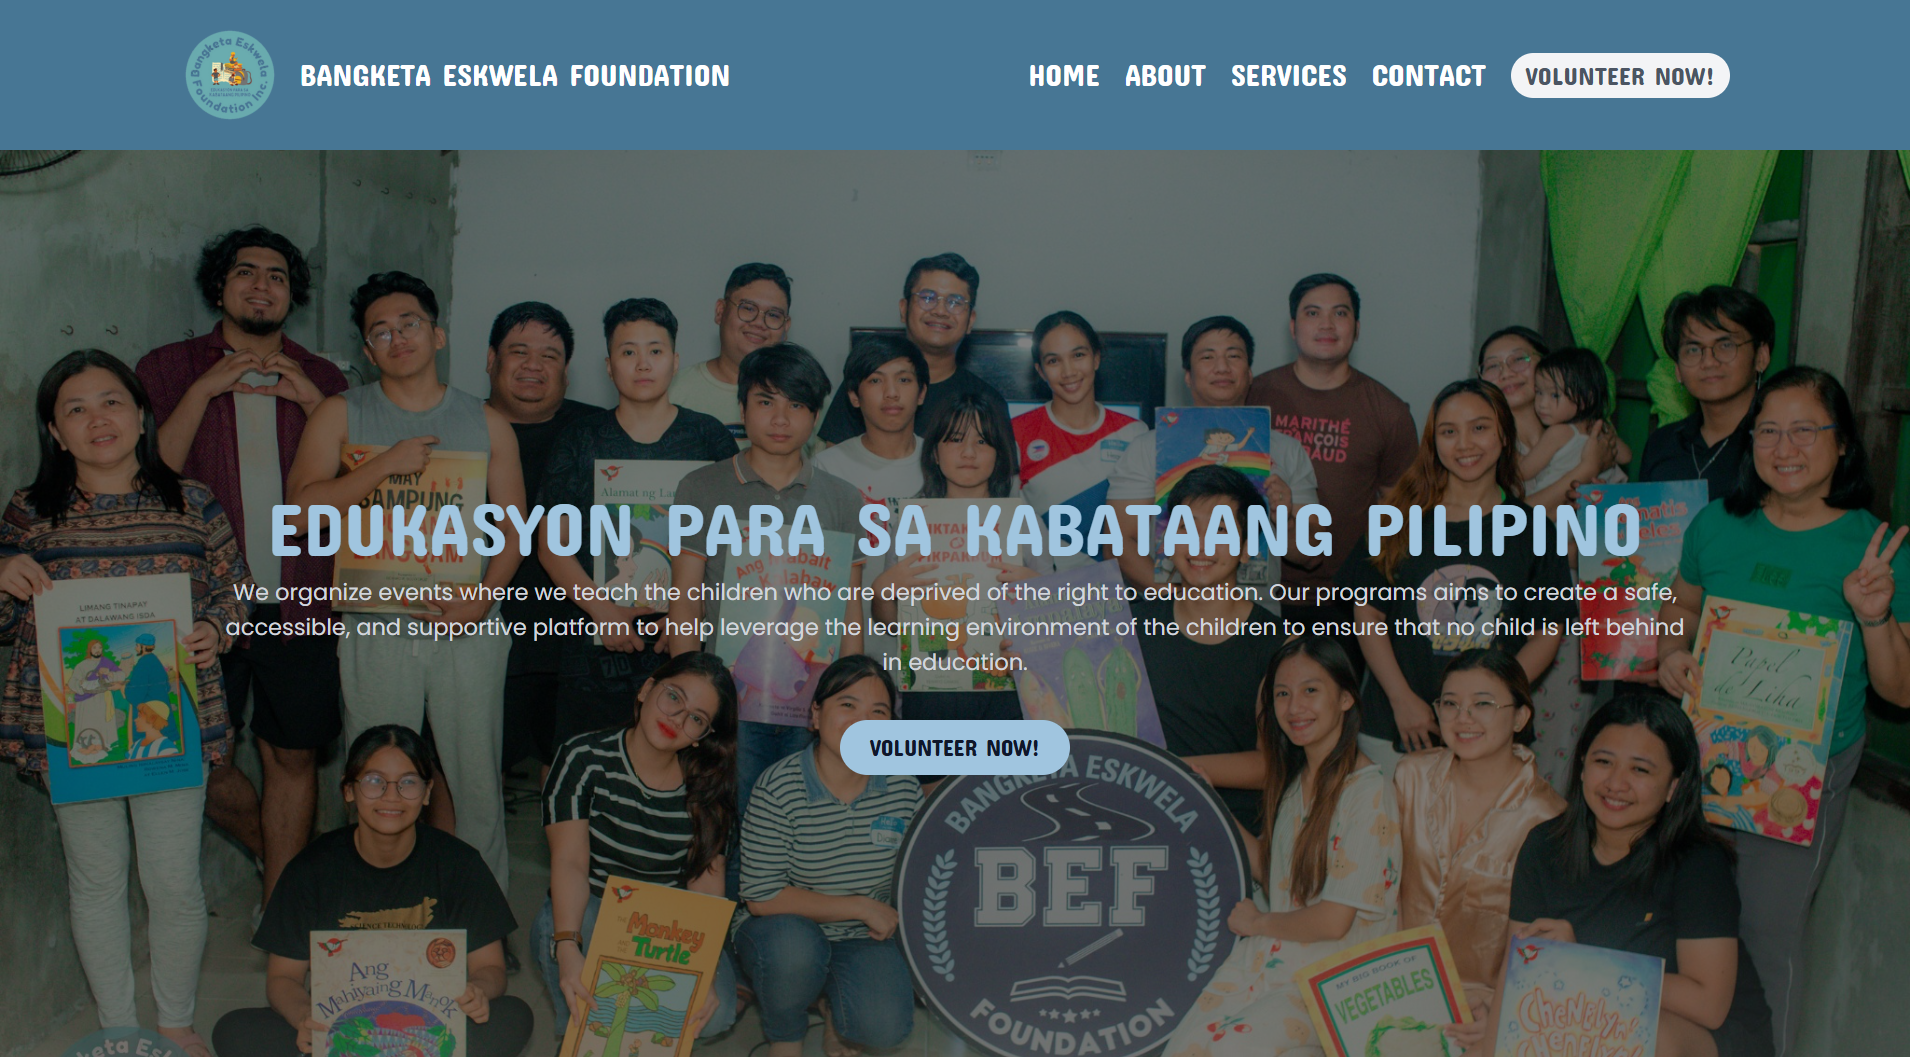
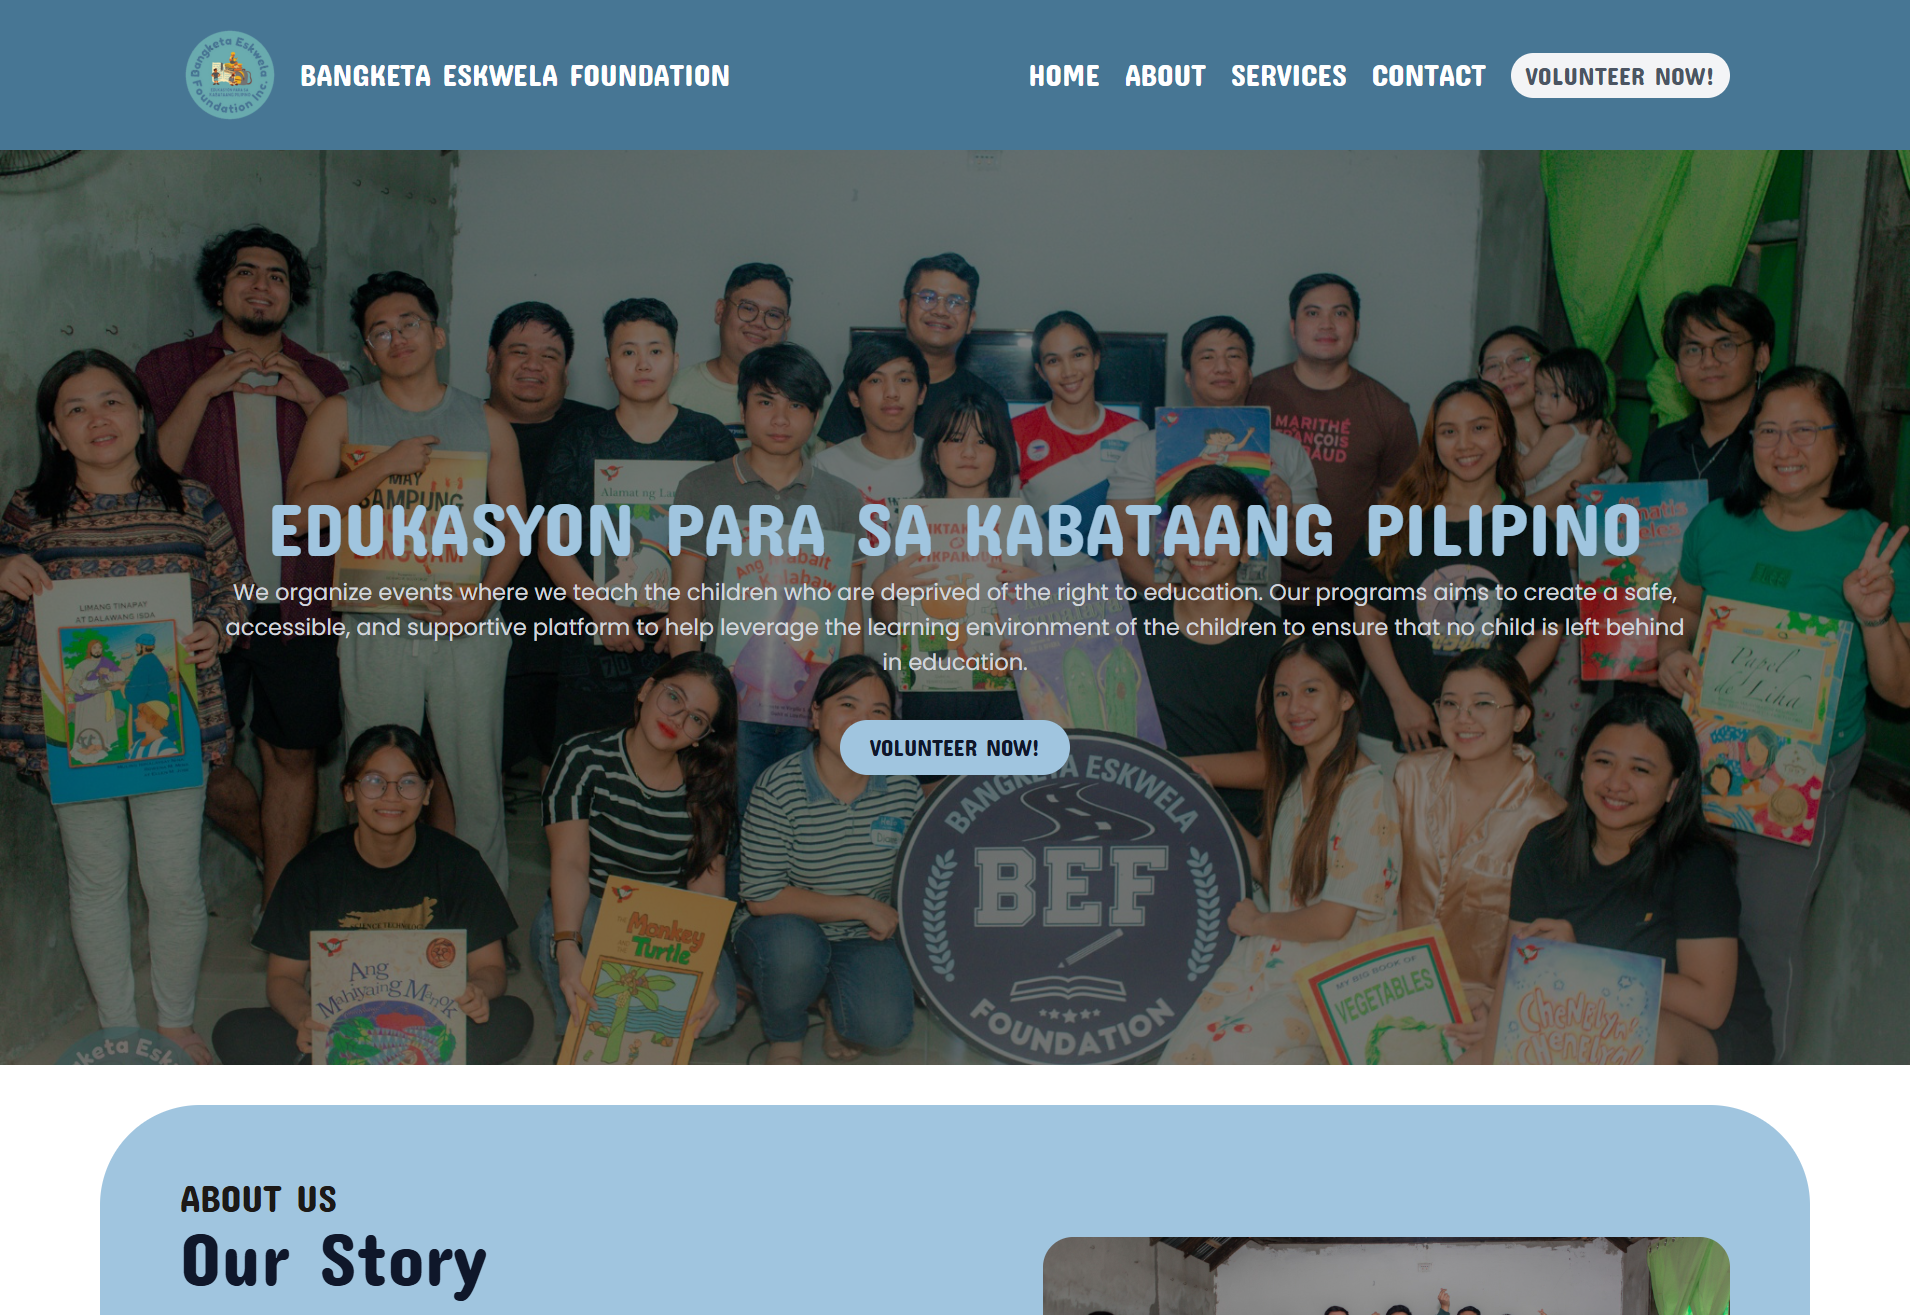
fixed the contents of the bangketa eskwela and hris contents

diff --git a/src/app/components/home/home.component.html b/src/app/components/home/home.component.html
@@ -22,7 +22,7 @@
             </h2>
             <h3 class=" text-2xl lg:text-2xl md:text-2xl mb-4 font-medium dark:text-stone-200 position " style = "color: #a7b5fe">Front-end Developer | CMS Developer | Web Designer | Graphic Desginer</h3>
             <p class="mb-8 leading-relaxed dark:text-white descrip text-justify">Welcome to my personal portfolio! Here, you’ll find a collection of my work and past projects that reflect my skills and experience. If you have any questions or would like to collaborate, feel free to reach out! I’d be glad to connect. I hope you enjoy exploring my portfolio!</p>
-            <button class="inline-flex text-stone-600 bg-red-200 border-0 py-1 px-6 focus:outline-none hover:bg-red-300 rounded text-lg dark:bg-slate-400 dark:hover:bg-slate-500 abt-button transform hover:scale-105 transition duration-300 ease-in-out hover:shadow-lg " routerLink = "/about" routerLinkActive = "active">About me
+            <button class="inline-flex text-stone-600 bg-red-200 border-0 py-1 px-6 focus:outline-none hover:bg-red-300 rounded text-lg dark:bg-slate-400 dark:hover:bg-slate-500 abt-button transform hover:scale-105 transition duration-300 ease-in-out hover:shadow-lg " routerLink = "/about" routerLinkActive = "active">Learn More
               </button>
           </div>
         </div>
@@ -36,16 +36,16 @@
           <div class="flex flex-wrap -m-4">
             <div class="p-4 md:w-1/2 " >
               <div class="h-full rounded-lg overflow-hidden bg-white dark:bg-slate-800 shadow-lg transform hover:scale-105 transition duration-300 ease-in-out hover:shadow-lg " >
-                <img class="shadow overflow-hidden " src="cc-home.jpg" alt="cookie corner website">
+                <img class="shadow overflow-hidden " src="bangketa-home-2.png" alt="bangketa eskwela website">
                 <div class="p-6">
                   <h3 class="tracking-widest text-xs title-font font-medium text-gray-400 mb-1 dark:text-slate-300" >My Projects</h3>
-                  <h2 class="title-font text-xl font-medium  mb-3 text-red-400 dark:text-white title-proj ">Cookie Corner</h2>
-                  <p class="leading-relaxed mb-3 text-md dark:text-zinc-300 title-descrip">This is a collaborated project as part of one of our academic subjects. Our task was to design and develop a static e-commerce website using the AngularJS framework. The project involves basic front-end functionalities to simulate an online shopping experience.</p>
+                  <h2 class="title-font text-xl font-medium  mb-3 text-red-400 dark:text-white title-proj ">Bangketa Eskwela</h2>
+                  <p class="leading-relaxed mb-3 text-md dark:text-zinc-300 title-descrip">This project focused on identifying an existing NGO in Pampanga, contributing to its goals and initiatives. It is a full-stack website built using the MEAN stack.</p>
                   <div class="flex items-center flex-wrap gap-4">
-                    <a class="text-gray-500 dark:text-zinc-400 inline-flex items-center md:mb-2 lg:mb-0 hover:scale-105 transition duration-300 ease-in-out" href = "https://cookie-corner.netlify.app/" target="_blank"><svg xmlns="http://www.w3.org/2000/svg" fill="none" viewBox="0 0 24 24" stroke-width="1.5" stroke="currentColor" class="size-6">
+                    <a class="text-gray-500 dark:text-zinc-400 inline-flex items-center md:mb-2 lg:mb-0 hover:scale-105 transition duration-300 ease-in-out" href = "https://bangketa-eskwela.netlify.app//" target="_blank"><svg xmlns="http://www.w3.org/2000/svg" fill="none" viewBox="0 0 24 24" stroke-width="1.5" stroke="currentColor" class="size-6">
                       <path stroke-linecap="round" stroke-linejoin="round" d="M12 21a9.004 9.004 0 0 0 8.716-6.747M12 21a9.004 9.004 0 0 1-8.716-6.747M12 21c2.485 0 4.5-4.03 4.5-9S14.485 3 12 3m0 18c-2.485 0-4.5-4.03-4.5-9S9.515 3 12 3m0 0a8.997 8.997 0 0 1 7.843 4.582M12 3a8.997 8.997 0 0 0-7.843 4.582m15.686 0A11.953 11.953 0 0 1 12 10.5c-2.998 0-5.74-1.1-7.843-2.918m15.686 0A8.959 8.959 0 0 1 21 12c0 .778-.099 1.533-.284 2.253m0 0A17.919 17.919 0 0 1 12 16.5c-3.162 0-6.133-.815-8.716-2.247m0 0A9.015 9.015 0 0 1 3 12c0-1.605.42-3.113 1.157-4.418" />
                     </svg></a>
-                    <a class="text-gray-500 dark:text-zinc-400 inline-flex items-center md:mb-2 lg:mb-0 hover:scale-105 transition duration-300 ease-in-out" href="https://github.com/gabbie-mrds/prelim-project-cookie-corner" target="_blank">
+                    <a class="text-gray-500 dark:text-zinc-400 inline-flex items-center md:mb-2 lg:mb-0 hover:scale-105 transition duration-300 ease-in-out" href="https://github.com/WD-302-GAREA/BANGKETA-ESKWELA" target="_blank">
                     <svg xmlns="http://www.w3.org/2000/svg" width="24" height="24" fill="currentColor" class="bi bi-github" viewBox="0 0 16 16">
                         <path d="M8 0C3.58 0 0 3.58 0 8c0 3.54 2.29 6.53 5.47 7.59.4.07.55-.17.55-.38 0-.19-.01-.82-.01-1.49-2.01.37-2.53-.49-2.69-.94-.09-.23-.48-.94-.82-1.13-.28-.15-.68-.52-.01-.53.63-.01 1.08.58 1.23.82.72 1.21 1.87.87 2.33.66.07-.52.28-.87.51-1.07-1.78-.2-3.64-.89-3.64-3.95 0-.87.31-1.59.82-2.15-.08-.2-.36-1.02.08-2.12 0 0 .67-.21 2.2.82.64-.18 1.32-.27 2-.27s1.36.09 2 .27c1.53-1.04 2.2-.82 2.2-.82.44 1.1.16 1.92.08 2.12.51.56.82 1.27.82 2.15 0 3.07-1.87 3.75-3.65 3.95.29.25.54.73.54 1.48 0 1.07-.01 1.93-.01 2.2 0 .21.15.46.55.38A8.01 8.01 0 0 0 16 8c0-4.42-3.58-8-8-8"/>
                       </svg>
@@ -74,7 +74,7 @@
         </div>
 
         <div class="flex justify-center pt-5">
-          <button class="inline-flex text-stone-600 bg-red-200 border-0 py-2 px-8 focus:outline-none hover:bg-red-300 rounded text-lg dark:bg-slate-400 dark:hover:bg-slate-500 abt-button transform hover:scale-105 transition duration-300 ease-in-out hover:shadow-lg" routerLink = "/projects" routerLinkActive = "active">Projects
+          <button class="inline-flex text-stone-600 bg-red-200 border-0 py-2 px-8 focus:outline-none hover:bg-red-300 rounded text-lg dark:bg-slate-400 dark:hover:bg-slate-500 abt-button transform hover:scale-105 transition duration-300 ease-in-out hover:shadow-lg" routerLink = "/projects" routerLinkActive = "active">See All
            </button>
         </div>
       </section>

diff --git a/src/app/components/projects/projects.component.html b/src/app/components/projects/projects.component.html
@@ -4,6 +4,42 @@
     <div class="lg:mx-20 md:mx-10 mx-5">
       <div class="container mx-auto flex lg:px-20 md:px-20 px-5 py-10  md:flex-row flex-col items-center" data-aos="zoom-in-up" data-aos-duration="400">
         <div class="lg:max-w-lg lg:w-full md:w-1/2 w-5/6">
+          <img class="object-cover object-center rounded shadow-lg transition hover:scale-105 hover:-rotate-1 hover:shadow-lg " alt="Arise HRIS" src="hris-dashboard.png">
+        </div>
+        <div class="lg:flex-grow md:w-1/2 lg:pl-24 md:pl-16 flex flex-col md:items-start md:text-left items-center text-center">
+  
+          <h2 class="title-font sm:text-4xl text-2xl mb-4 font-medium text-gray-900 title-proj mt-5 lg:pr-10" style = "color:#747eb1;">Arise HRIS </h2>
+          <p class="mb-8 leading-relaxed dark:text-zinc-300 text-justify lg:p-0 md:p-0 pl-10 pr-10 descrip">This project is a collaboratively developed <b>capstone output</b> focused on developing a Human Resource Information System for Arise Construction and Development Corporation.</p>
+  
+           <div class="flex justify-center">
+            <button class="inline-flex text-stone-600 bg-red-200 border-0 py-2 px-6 focus:outline-none hover:bg-red-300 rounded text-md dark:bg-slate-400 dark:hover:bg-slate-500 abt-button transform hover:scale-105 transition duration-300 ease-in-out hover:shadow-lg " routerLink = "/hris-arise" routerLinkActive = "active">See Details</button>
+            
+          </div>
+        </div>
+      </div>
+    </div>
+    
+    <div class="lg:mx-20 md:mx-10 mx-5">
+      <div class="container mx-auto flex lg:px-10 md:px-20 px-5 py-10  md:flex-row flex-col items-center lg:flex-row-reverse" data-aos="zoom-in-up" data-aos-duration="400">
+        <div class="lg:max-w-lg lg:w-full md:w-1/2 w-5/6">
+          <img class="object-cover object-center rounded shadow-lg transition hover:scale-105 hover:rotate-1 hover:shadow-lg " alt="Bangketa Eskwela" src="bangketa-home.png">
+        </div>
+        <div class="lg:flex-grow md:w-1/2 lg:pl-24 md:pl-16 flex flex-col md:items-start md:text-left items-center text-center">
+  
+          <a class = "gabbieeats" href="https://bangketa-eskwela.netlify.app/" target = "_blank"><h2 class="title-font sm:text-4xl text-2xl mb-4 font-medium text-gray-900 gabbieeats title-proj mt-5 hover:scale-105 transition duration-300 ease-in-out">Bangketa Eskwela</h2></a>
+  
+          <p class="mb-8 leading-relaxed dark:text-zinc-300 text-justify lg:p-0 md:p-0 pl-10 pr-10 descrip lg:pr-10">This project focused on identifying an existing NGO in Pampanga, contributing to its goals and initiatives.</p>
+  
+           <div class="flex justify-center">
+            <button class="inline-flex text-stone-600 bg-red-200 border-0 py-2 px-6 focus:outline-none hover:bg-red-300 rounded text-md dark:bg-slate-400 dark:hover:bg-slate-500 abt-button transform hover:scale-105 transition duration-300 ease-in-out hover:shadow-lg " routerLink = "/bangketa-eskwela" routerLinkActive = "active">See Details</button>
+           </div>
+        </div>
+      </div>
+    </div>
+
+    <div class="lg:mx-20 md:mx-10 mx-5">
+      <div class="container mx-auto flex lg:px-20 md:px-20 px-5 py-10  md:flex-row flex-col items-center" data-aos="zoom-in-up" data-aos-duration="400">
+        <div class="lg:max-w-lg lg:w-full md:w-1/2 w-5/6">
           <img class="object-cover object-center rounded shadow-lg transition hover:scale-105 hover:-rotate-1 hover:shadow-lg " alt="cookie corner" src="cc-home.jpg">
         </div>
         <div class="lg:flex-grow md:w-1/2 lg:pl-24 md:pl-16 flex flex-col md:items-start md:text-left items-center text-center">

diff --git a/src/app/projects/bangketa-eskwela/bangketa-eskwela.component.html b/src/app/projects/bangketa-eskwela/bangketa-eskwela.component.html
@@ -6,7 +6,7 @@
         <div class = "bg-violet-200 dark:bg-gray-800 rounded-lg lg:mx-40 md:mx-20 lg:py-10 py-5 mx-5 mb-5 transition hover:scale-105 hover:-rotate-1"  >
             <div class = "flex justify-center  pl-10 pr-10">
                 
-                <img class="h-auto lg:max-w-3xl rounded-lg" src="bangketa-home.png" alt="GabbieEats Home Page">
+                <img class="h-auto lg:max-w-3xl rounded-lg" src="bangketa-home.png" alt="Bangketa Eskwela Home Page">
             </div>
         </div>
     </div>
@@ -29,7 +29,7 @@
           
           <div class="md:w-3/5 md:pl-6">
             
-            <h3 class=" text-2xl font-medium dark:text-stone-200 proj" style = "color:#747eb1;">This project is a collaborative output for one of my subjects, where we were tasked to select an existing NGO based in Pampanga.</h3>
+            <h3 class=" text-2xl font-medium dark:text-stone-200 proj" style = "color:#747eb1;">This project focused on identifying an existing NGO in Pampanga, contributing to its goals and initiatives.</h3>
             <br>
             <p class="leading-relaxed text-base dark:text-stone-200 descrip">This project is a full-stack website built using the MEAN stack. It showcases the organization’s mission and purpose, while also digitizing its initial Google Forms for volunteer applications. An admin dashboard was also developed, allowing administrators to view and manage volunteer applicants.
             </p>
@@ -42,7 +42,7 @@
         <div class = "bg-violet-200 dark:bg-gray-800 rounded-lg lg:mx-40 md:mx-20 lg:py-10 py-5 mx-5 mb-5 hover:scale-105 transition duration-300 ease-in-out"  >
             <div class = "flex justify-center  pl-10 pr-10">
                 
-                <img class="h-auto lg:max-w-3xl rounded-lg" src="bangketa-services.png" alt="GabbieEats Blogs Page">
+                <img class="h-auto lg:max-w-3xl rounded-lg" src="bangketa-services.png" alt="Bangketa Eskwela Services">
             </div>
         </div>
     </div>
@@ -51,7 +51,7 @@
         <div class = "bg-violet-200 dark:bg-gray-800 rounded-lg lg:mx-40 md:mx-20 lg:py-10 py-5 mx-5 mt-5 mb-5 hover:scale-105 transition duration-300 ease-in-out"  >
             <div class = "flex justify-center  pl-10 pr-10">
                 
-                <img class="h-auto lg:max-w-3xl rounded-lg" src="bangketa-volunteer.png" alt="GabbieEats Binondo Food Crawl Blog">
+                <img class="h-auto lg:max-w-3xl rounded-lg" src="bangketa-volunteer.png" alt="Bangketa Eskwela Voluteer Form">
             </div>
         </div>
     </div>

diff --git a/src/app/components/contact/contact.component.html b/src/app/components/contact/contact.component.html
@@ -21,14 +21,14 @@ style="background-image: url(contact-bg.webp); ">
                         <path d="M0 1.146C0 .513.526 0 1.175 0h13.65C15.474 0 16 .513 16 1.146v13.708c0 .633-.526 1.146-1.175 1.146H1.175C.526 16 0 15.487 0 14.854zm4.943 12.248V6.169H2.542v7.225zm-1.2-8.212c.837 0 1.358-.554 1.358-1.248-.015-.709-.52-1.248-1.342-1.248S2.4 3.226 2.4 3.934c0 .694.521 1.248 1.327 1.248zm4.908 8.212V9.359c0-.216.016-.432.08-.586.173-.431.568-.878 1.232-.878.869 0 1.216.662 1.216 1.634v3.865h2.401V9.25c0-2.22-1.184-3.252-2.764-3.252-1.274 0-1.845.7-2.165 1.193v.025h-.016l.016-.025V6.169h-2.4c.03.678 0 7.225 0 7.225z"/>
                       </svg>
                 </a>
-                <a class="text-gray-500 dark:text-zinc-300 inline-flex items-center md:mb-2 lg:mb-0 transform hover:scale-105" href="https://www.instagram.com/gab_mrds/"
+                <!--<a class="text-gray-500 dark:text-zinc-300 inline-flex items-center md:mb-2 lg:mb-0 transform hover:scale-105" href="https://www.instagram.com/gab_mrds/"
                     target="_blank">
                     <svg fill="none" stroke="currentColor" stroke-linecap="round" stroke-linejoin="round"
                         stroke-width="2" class="w-6 h-6" viewBox="0 0 24 24">
                         <rect width="20" height="20" x="2" y="2" rx="5" ry="5"></rect>
                         <path d="M16 11.37A4 4 0 1112.63 8 4 4 0 0116 11.37zm1.5-4.87h.01"></path>
                     </svg>
-                </a>
+                </a>-->
                 <a class="text-gray-500 dark:text-zinc-300 inline-flex items-center md:mb-2 lg:mb-0 transform hover:scale-105" href="https://github.com/gabbie-mrds"
                 target="_blank">
                     <svg xmlns="http://www.w3.org/2000/svg" width="24" height="24" fill="currentColor" class="bi bi-github" viewBox="0 0 16 16">

diff --git a/src/app/projects/hris/hris.component.html b/src/app/projects/hris/hris.component.html
@@ -6,7 +6,7 @@
         <div class = "bg-red-200 dark:bg-gray-800 rounded-lg lg:mx-40 md:mx-20 lg:py-10 py-5 mx-5 mb-5 transition hover:scale-105 hover:-rotate-1"  >
             <div class = "flex justify-center  pl-10 pr-10 ">
                 
-                <img class="h-auto lg:max-w-3xl rounded-lg" src="cc-home.jpg" alt="image description">
+                <img class="h-auto lg:max-w-3xl rounded-lg" src="hris-dashboard.png" alt="Arise HRIS Dashboard">
             </div>
         </div>
     </div>
@@ -41,14 +41,14 @@
     <div class="lg:grid lg:grid-cols-2 gap-4 max-w-6xl lg:mx-auto md:mx-10 mx-10"  data-aos="zoom-in-up">
         <div class="mt-5">
             <div class="bg-red-200 dark:bg-gray-800 lg:px-10 lg:py-5 md:px-10 md:py-5 px-5 py-5 rounded-lg hover:scale-105 transition duration-300 ease-in-out">
-                <img class="h-auto rounded-lg" src="cc-about.png" alt="Cookie Corner - About page">
+                <img class="h-auto rounded-lg" src="hris-data-overview.png" alt="Arise HRIS Data Overview page">
                 
             </div>
         </div>
         
         <div class="mt-5">
             <div class="bg-red-200 dark:bg-gray-800 lg:px-10 lg:py-6 md:px-10 md:py-5 px-5 py-5 rounded-lg hover:scale-105 transition duration-300 ease-in-out">
-                <img class="h-auto rounded-lg" src="cc-team.png" alt="Cookie Corner - Team page">
+                <img class="h-auto rounded-lg" src="hris-calendar.png" alt="Arise HRIS Data Calendar page">
             </div>
         </div>
 

diff --git a/src/app/app.routes.ts b/src/app/app.routes.ts
@@ -19,6 +19,6 @@ export const routes: Routes = [
     {path: 'gabbieeats', title: 'GMRDS | GABBIEEATS' , component: GabbieeatsComponent},
     {path: 'gnb', title: 'GMRDS | GREENS N BEANS', component: GnbComponent},
     {path: 'towerground', title: 'GMRDS | TOWER GROUND', component: TowerGroundComponent},
-    {path: 'bangketa-eskwela', title: 'GMRDS | BANGEKTA ESKWELA', component: BangketaEskwelaComponent},
-    {path: 'hris-arise', title: 'GMRDS | HRIS', component: HrisComponent},
+    {path: 'bangketa-eskwela', title: 'GMRDS | BANGKETA ESKWELA', component: BangketaEskwelaComponent},
+    {path: 'hris-arise', title: 'GMRDS | ARISE HRIS', component: HrisComponent},
 ];
